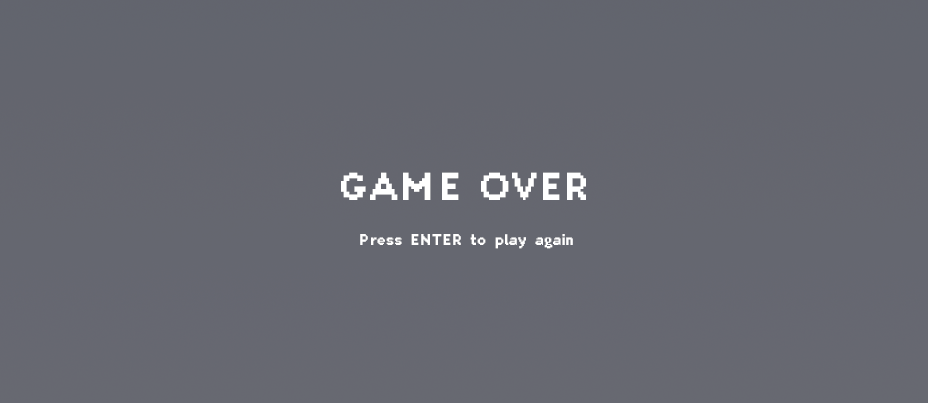
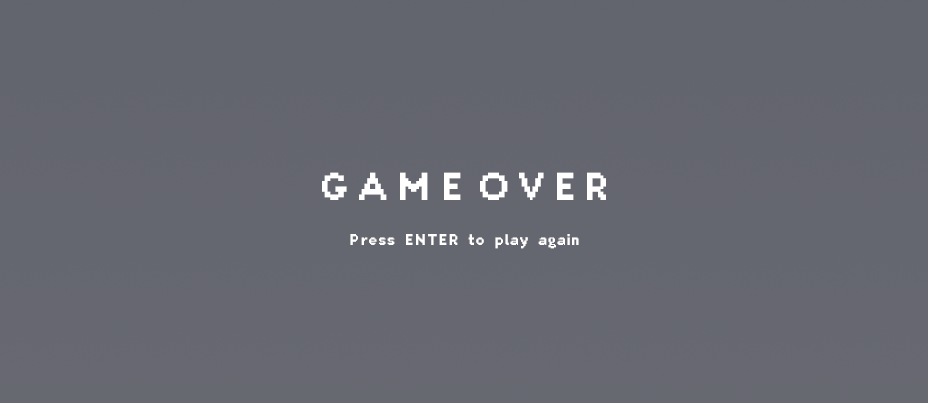
Minor last fixs
1. Loop the background songs.
2. Moved the wizard a little to the right.
3. Centered the score in the middle.

Changed region(s): [[0.3438, 0.4169, 0.6562, 0.5062], [0.375, 0.5658, 0.625, 0.6253]]

diff --git a/game.js b/game.js
@@ -40,10 +40,6 @@ class Game {
     this.soundDead = loadSound("assets/sounds/dead.mp3");
     this.soundJump = loadSound("assets/sounds/jump.mp3");
 
-    /* this.bgPianoSong = [];
-    for (let i = 0; i <= 5; i++) {
-      this.bgPianoArray.push(loadSound("assets/sounds/bgSoundPiano.mp3"));
-    } */
     this.bgSoundPiano = loadSound("assets/sounds/bgSoundPiano.mp3");
     this.bgSoundBirds = loadSound("assets/sounds/bgSoundBirds.mp3");
 
@@ -125,14 +121,11 @@ class Game {
     }
 
     textFont(this.pixelFont);
-    textSize(18);
     textAlign(CENTER);
     fill(255, 255, 255);
-    text(`score: ${this.score}`, 0, 60, width);
-
-    /* textSize(16);
-    text("score", 0, 48, width);
-    textSize(20);
-    text(`${this.score}`, 0, 72, width); */
+    textSize(14);
+    text(" score", 0, 47, width);
+    textSize(22);
+    text(` ${this.score}`, 0, 72, width);
   }
 }

diff --git a/main.js b/main.js
@@ -8,11 +8,8 @@ function setup() {
   createCanvas(928, 403);
   game.setup();
 
-  /* for (let i = 0; i <= 5; i++) {
-    game.bgPianoArray[i].play();
-  } */
-  game.bgSoundPiano.play();
-  game.bgSoundBirds.play();
+  game.bgSoundPiano.loop();
+  game.bgSoundBirds.loop();
 }
 
 function draw() {

diff --git a/character.js b/character.js
@@ -9,7 +9,7 @@ class Character {
     this.height = this.imgRun.height;
     this.width = this.imgRun.width;
     this.marginBottom = 43;
-    this.x = 100;
+    this.x = 136;
     this.y = height - (this.height + this.marginBottom);
   }
 
